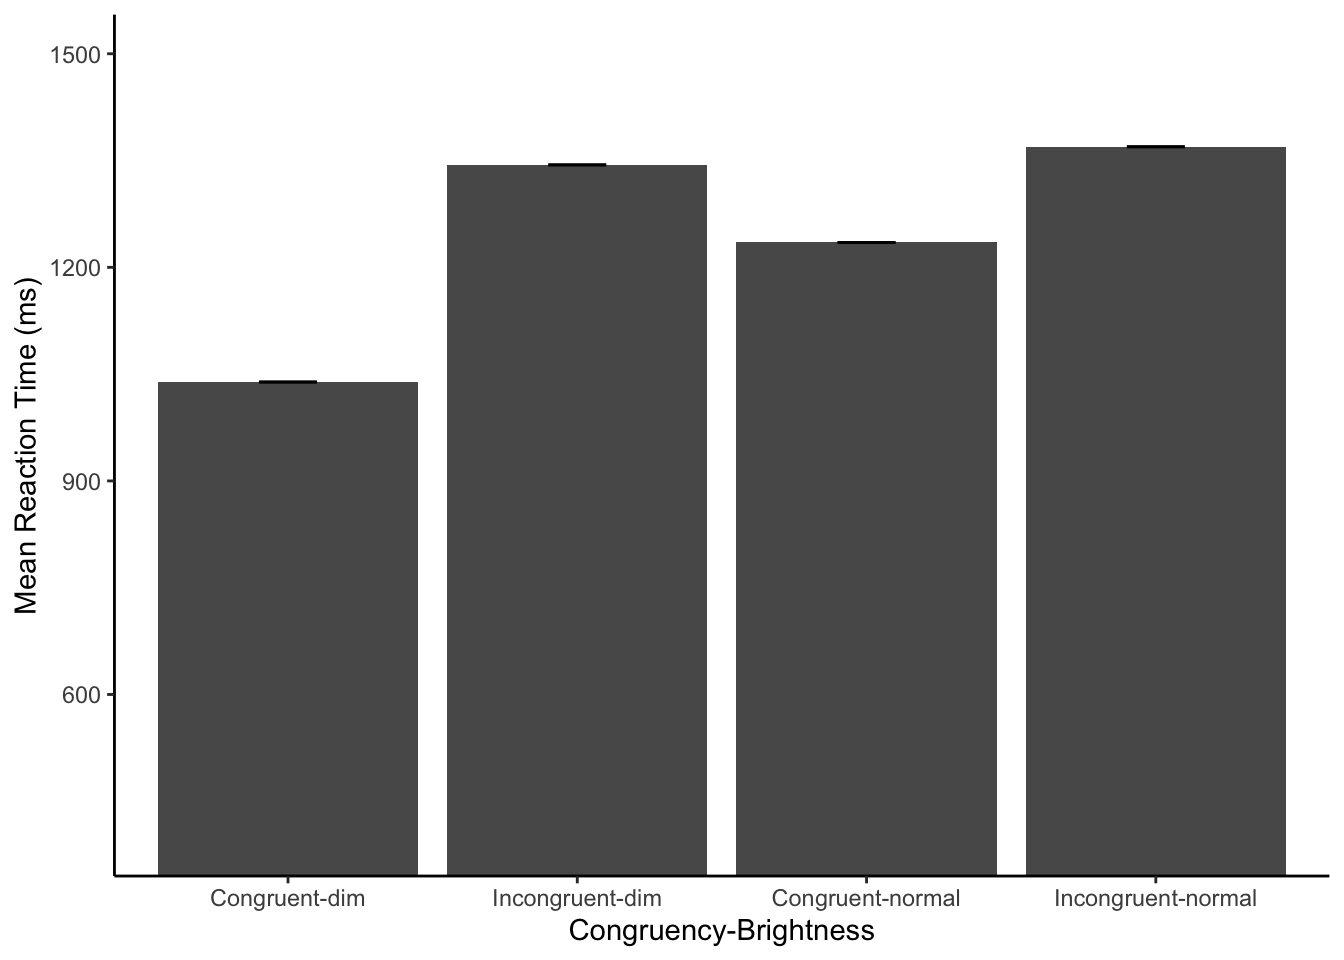
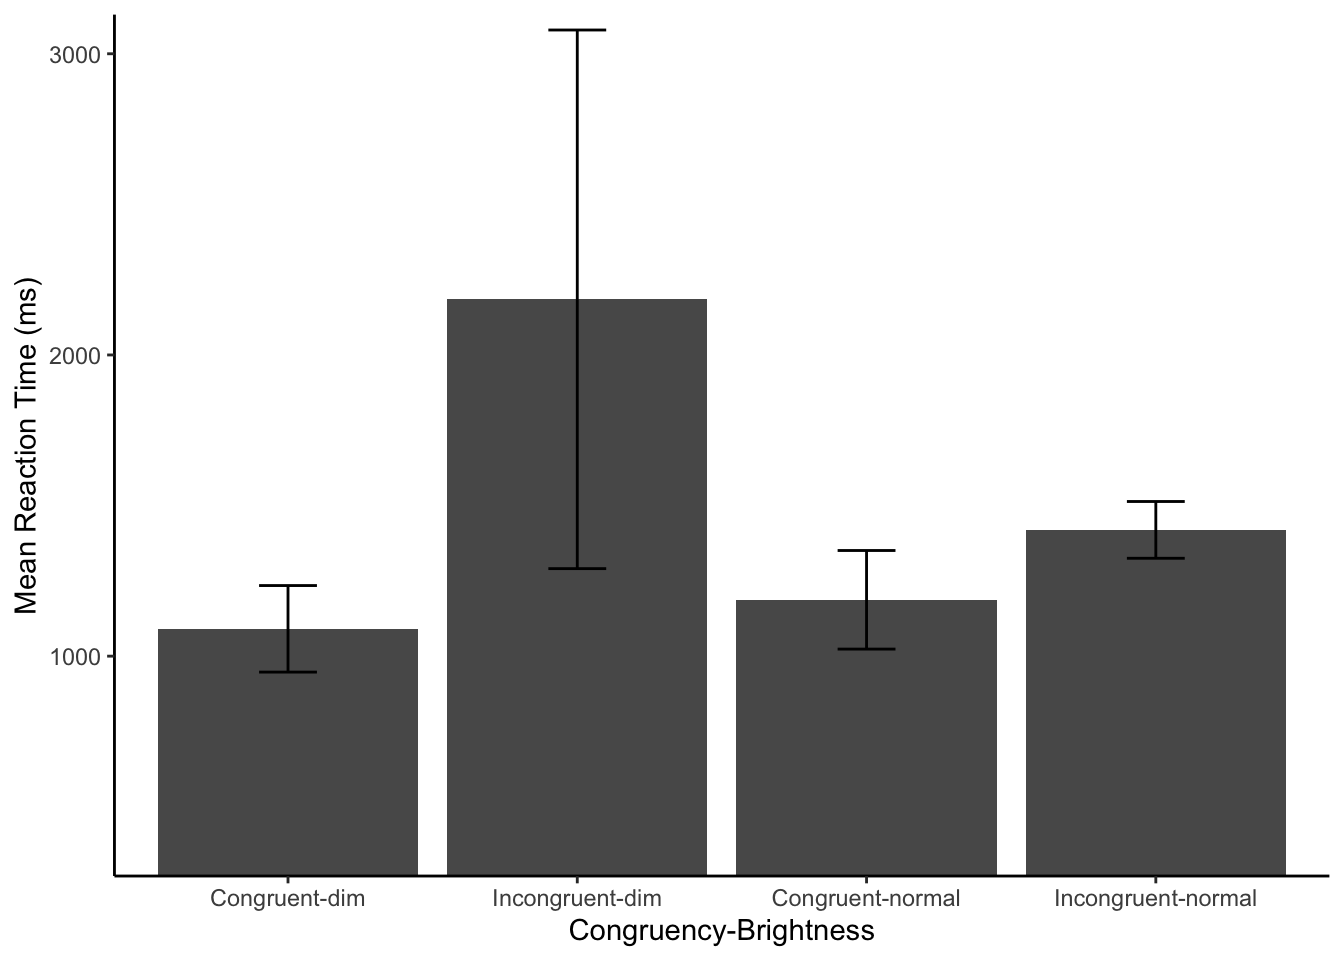
fixing graphs

diff --git a/docs/posts/data-analysis/index.html b/docs/posts/data-analysis/index.html
@@ -349,7 +349,7 @@ pre > code.sourceCode > span > a:first-child::before { text-decoration: underlin
 <span id="cb9-9"><a href="#cb9-9" aria-hidden="true" tabindex="-1"></a>                <span class="at">width=</span>.<span class="dv">2</span>) <span class="sc">+</span></span>
 <span id="cb9-10"><a href="#cb9-10" aria-hidden="true" tabindex="-1"></a>  <span class="fu">ylab</span>(<span class="st">"Mean Reaction Time (ms)"</span>) <span class="sc">+</span></span>
 <span id="cb9-11"><a href="#cb9-11" aria-hidden="true" tabindex="-1"></a>  <span class="fu">xlab</span>(<span class="st">"Congruency-Brightness"</span>) <span class="sc">+</span>  <span class="co"># Update the x-label to reflect the interaction</span></span>
-<span id="cb9-12"><a href="#cb9-12" aria-hidden="true" tabindex="-1"></a>  <span class="fu">coord_cartesian</span>(<span class="at">ylim=</span><span class="fu">c</span>(<span class="dv">400</span>,<span class="dv">1500</span>)) <span class="sc">+</span></span>
+<span id="cb9-12"><a href="#cb9-12" aria-hidden="true" tabindex="-1"></a>  <span class="fu">coord_cartesian</span>(<span class="at">ylim=</span><span class="fu">c</span>(<span class="dv">400</span>,<span class="dv">3000</span>)) <span class="sc">+</span></span>
 <span id="cb9-13"><a href="#cb9-13" aria-hidden="true" tabindex="-1"></a>  <span class="fu">theme_classic</span>()</span></code><button title="Copy to Clipboard" class="code-copy-button"><i class="bi"></i></button></pre></div>
 <div class="cell-output-display">
 <p><img src="index_files/figure-html/unnamed-chunk-5-1.png" class="img-fluid" width="672"></p>
@@ -376,16 +376,18 @@ pre > code.sourceCode > span > a:first-child::before { text-decoration: underlin
 <pre><code>`summarise()` has grouped output by 'congruency'. You can override using the
 `.groups` argument.</code></pre>
 </div>
-<div class="sourceCode cell-code" id="cb12"><pre class="sourceCode r code-with-copy"><code class="sourceCode r"><span id="cb12-1"><a href="#cb12-1" aria-hidden="true" tabindex="-1"></a><span class="co"># plot</span></span>
-<span id="cb12-2"><a href="#cb12-2" aria-hidden="true" tabindex="-1"></a><span class="fu">ggplot</span>(group_mean_pc, <span class="fu">aes</span>(<span class="at">x=</span>congruency,<span class="at">y=</span>mean_proportion_correct)) <span class="sc">+</span></span>
-<span id="cb12-3"><a href="#cb12-3" aria-hidden="true" tabindex="-1"></a>  <span class="fu">geom_bar</span>(<span class="at">stat=</span><span class="st">"identity"</span>) <span class="sc">+</span></span>
-<span id="cb12-4"><a href="#cb12-4" aria-hidden="true" tabindex="-1"></a>  <span class="fu">geom_errorbar</span>(<span class="fu">aes</span>(<span class="at">ymin=</span>mean_proportion_correct<span class="sc">-</span>sem,</span>
-<span id="cb12-5"><a href="#cb12-5" aria-hidden="true" tabindex="-1"></a>                    <span class="at">ymax=</span>mean_proportion_correct<span class="sc">+</span>sem),</span>
-<span id="cb12-6"><a href="#cb12-6" aria-hidden="true" tabindex="-1"></a>                <span class="at">width=</span>.<span class="dv">2</span>) <span class="sc">+</span></span>
-<span id="cb12-7"><a href="#cb12-7" aria-hidden="true" tabindex="-1"></a>  <span class="fu">ylab</span>(<span class="st">"Mean Proportion Correct"</span>) <span class="sc">+</span></span>
-<span id="cb12-8"><a href="#cb12-8" aria-hidden="true" tabindex="-1"></a>  <span class="fu">xlab</span>(<span class="st">"Congruency"</span>)<span class="sc">+</span></span>
-<span id="cb12-9"><a href="#cb12-9" aria-hidden="true" tabindex="-1"></a>  <span class="fu">coord_cartesian</span>(<span class="at">ylim=</span><span class="fu">c</span>(<span class="fl">0.5</span>,<span class="dv">1</span>)) <span class="sc">+</span></span>
-<span id="cb12-10"><a href="#cb12-10" aria-hidden="true" tabindex="-1"></a>  <span class="fu">theme_classic</span>()</span></code><button title="Copy to Clipboard" class="code-copy-button"><i class="bi"></i></button></pre></div>
+<div class="sourceCode cell-code" id="cb12"><pre class="sourceCode r code-with-copy"><code class="sourceCode r"><span id="cb12-1"><a href="#cb12-1" aria-hidden="true" tabindex="-1"></a><span class="co"># Create an interaction term</span></span>
+<span id="cb12-2"><a href="#cb12-2" aria-hidden="true" tabindex="-1"></a>group_mean_pc<span class="sc">$</span>interaction <span class="ot">&lt;-</span> <span class="fu">interaction</span>(group_mean_pc<span class="sc">$</span>congruency, group_mean_pc<span class="sc">$</span>brightness, <span class="at">sep=</span><span class="st">"-"</span>)</span>
+<span id="cb12-3"><a href="#cb12-3" aria-hidden="true" tabindex="-1"></a><span class="co"># Plot</span></span>
+<span id="cb12-4"><a href="#cb12-4" aria-hidden="true" tabindex="-1"></a><span class="fu">ggplot</span>(group_mean_pc, <span class="fu">aes</span>(<span class="at">x=</span>interaction,<span class="at">y=</span>mean_proportion_correct)) <span class="sc">+</span></span>
+<span id="cb12-5"><a href="#cb12-5" aria-hidden="true" tabindex="-1"></a>  <span class="fu">geom_bar</span>(<span class="at">stat=</span><span class="st">"identity"</span>) <span class="sc">+</span></span>
+<span id="cb12-6"><a href="#cb12-6" aria-hidden="true" tabindex="-1"></a>  <span class="fu">geom_errorbar</span>(<span class="fu">aes</span>(<span class="at">ymin=</span>mean_proportion_correct<span class="sc">-</span>sem,</span>
+<span id="cb12-7"><a href="#cb12-7" aria-hidden="true" tabindex="-1"></a>                    <span class="at">ymax=</span>mean_proportion_correct<span class="sc">+</span>sem),</span>
+<span id="cb12-8"><a href="#cb12-8" aria-hidden="true" tabindex="-1"></a>                <span class="at">width=</span>.<span class="dv">2</span>) <span class="sc">+</span></span>
+<span id="cb12-9"><a href="#cb12-9" aria-hidden="true" tabindex="-1"></a>  <span class="fu">ylab</span>(<span class="st">"Mean Proportion Correct"</span>) <span class="sc">+</span></span>
+<span id="cb12-10"><a href="#cb12-10" aria-hidden="true" tabindex="-1"></a>  <span class="fu">xlab</span>(<span class="st">"Congruency-Brightness"</span>)<span class="sc">+</span></span>
+<span id="cb12-11"><a href="#cb12-11" aria-hidden="true" tabindex="-1"></a>  <span class="fu">coord_cartesian</span>(<span class="at">ylim=</span><span class="fu">c</span>(<span class="fl">0.5</span>,<span class="dv">1</span>)) <span class="sc">+</span></span>
+<span id="cb12-12"><a href="#cb12-12" aria-hidden="true" tabindex="-1"></a>  <span class="fu">theme_classic</span>()</span></code><button title="Copy to Clipboard" class="code-copy-button"><i class="bi"></i></button></pre></div>
 <div class="cell-output-display">
 <p><img src="index_files/figure-html/unnamed-chunk-6-1.png" class="img-fluid" width="672"></p>
 </div>

diff --git a/docs/index.html b/docs/index.html
@@ -170,7 +170,7 @@ ul.task-list li input[type="checkbox"] {
 
 <div class="quarto-listing quarto-listing-container-default" id="listing-listing">
 <div class="list quarto-listing-default">
-<div class="quarto-post image-right" data-index="0" data-categories="code,website,stroop,data" data-listing-date-sort="1696392000000" data-listing-file-modified-sort="1696735316105" data-listing-date-modified-sort="NaN" data-listing-reading-time-sort="5">
+<div class="quarto-post image-right" data-index="0" data-categories="code,website,stroop,data" data-listing-date-sort="1696392000000" data-listing-file-modified-sort="1696987080485" data-listing-date-modified-sort="NaN" data-listing-reading-time-sort="5">
 <div class="thumbnail">
 <p><a href="./posts/data-analysis/index.html"> <img src="./posts/data-analysis/image.jpeg" class="thumbnail-image"> </a></p>
 </div>
